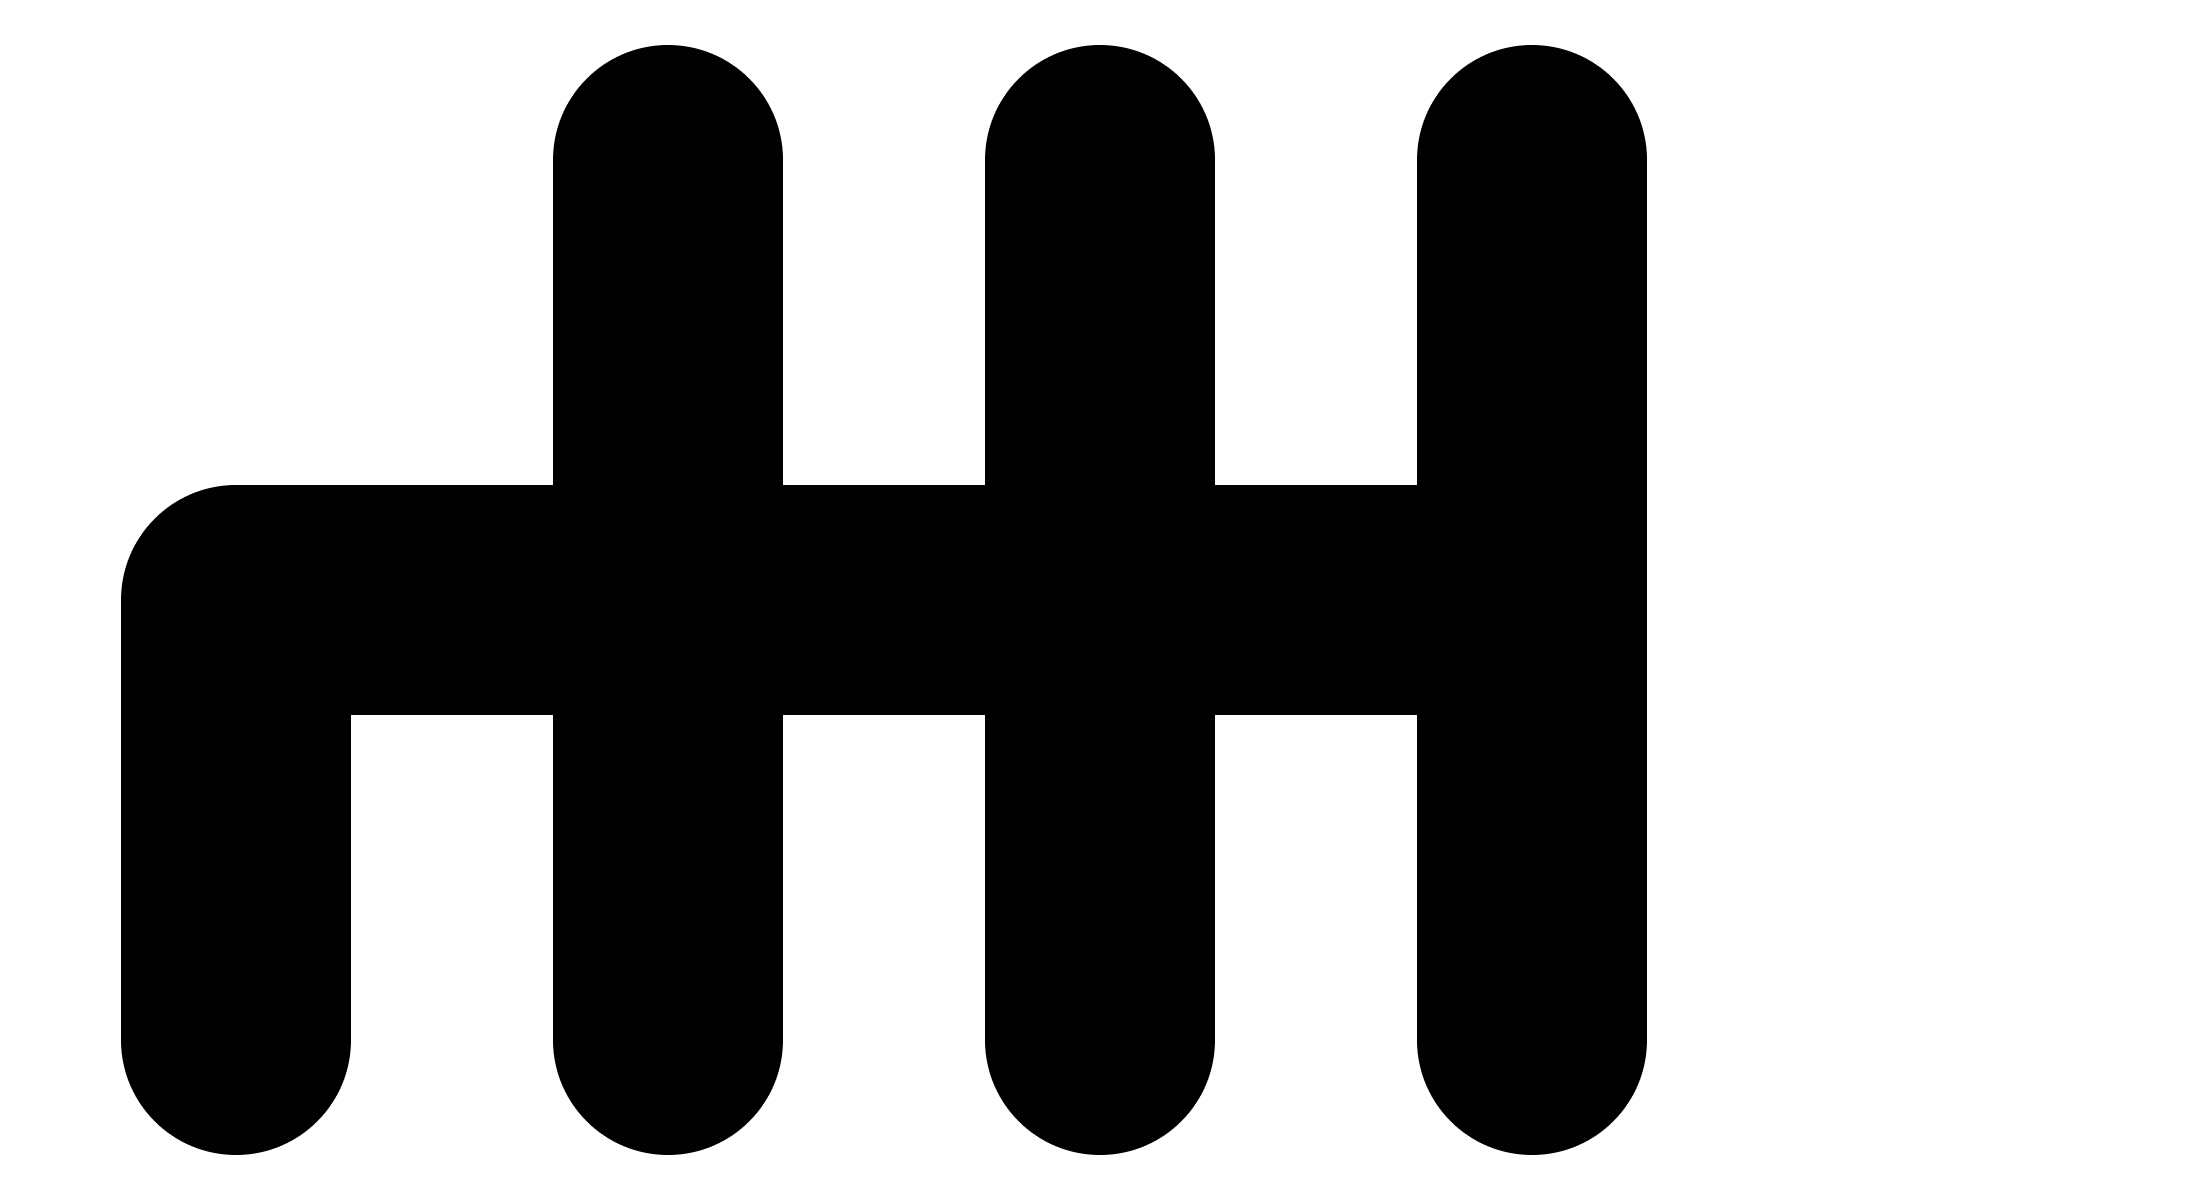
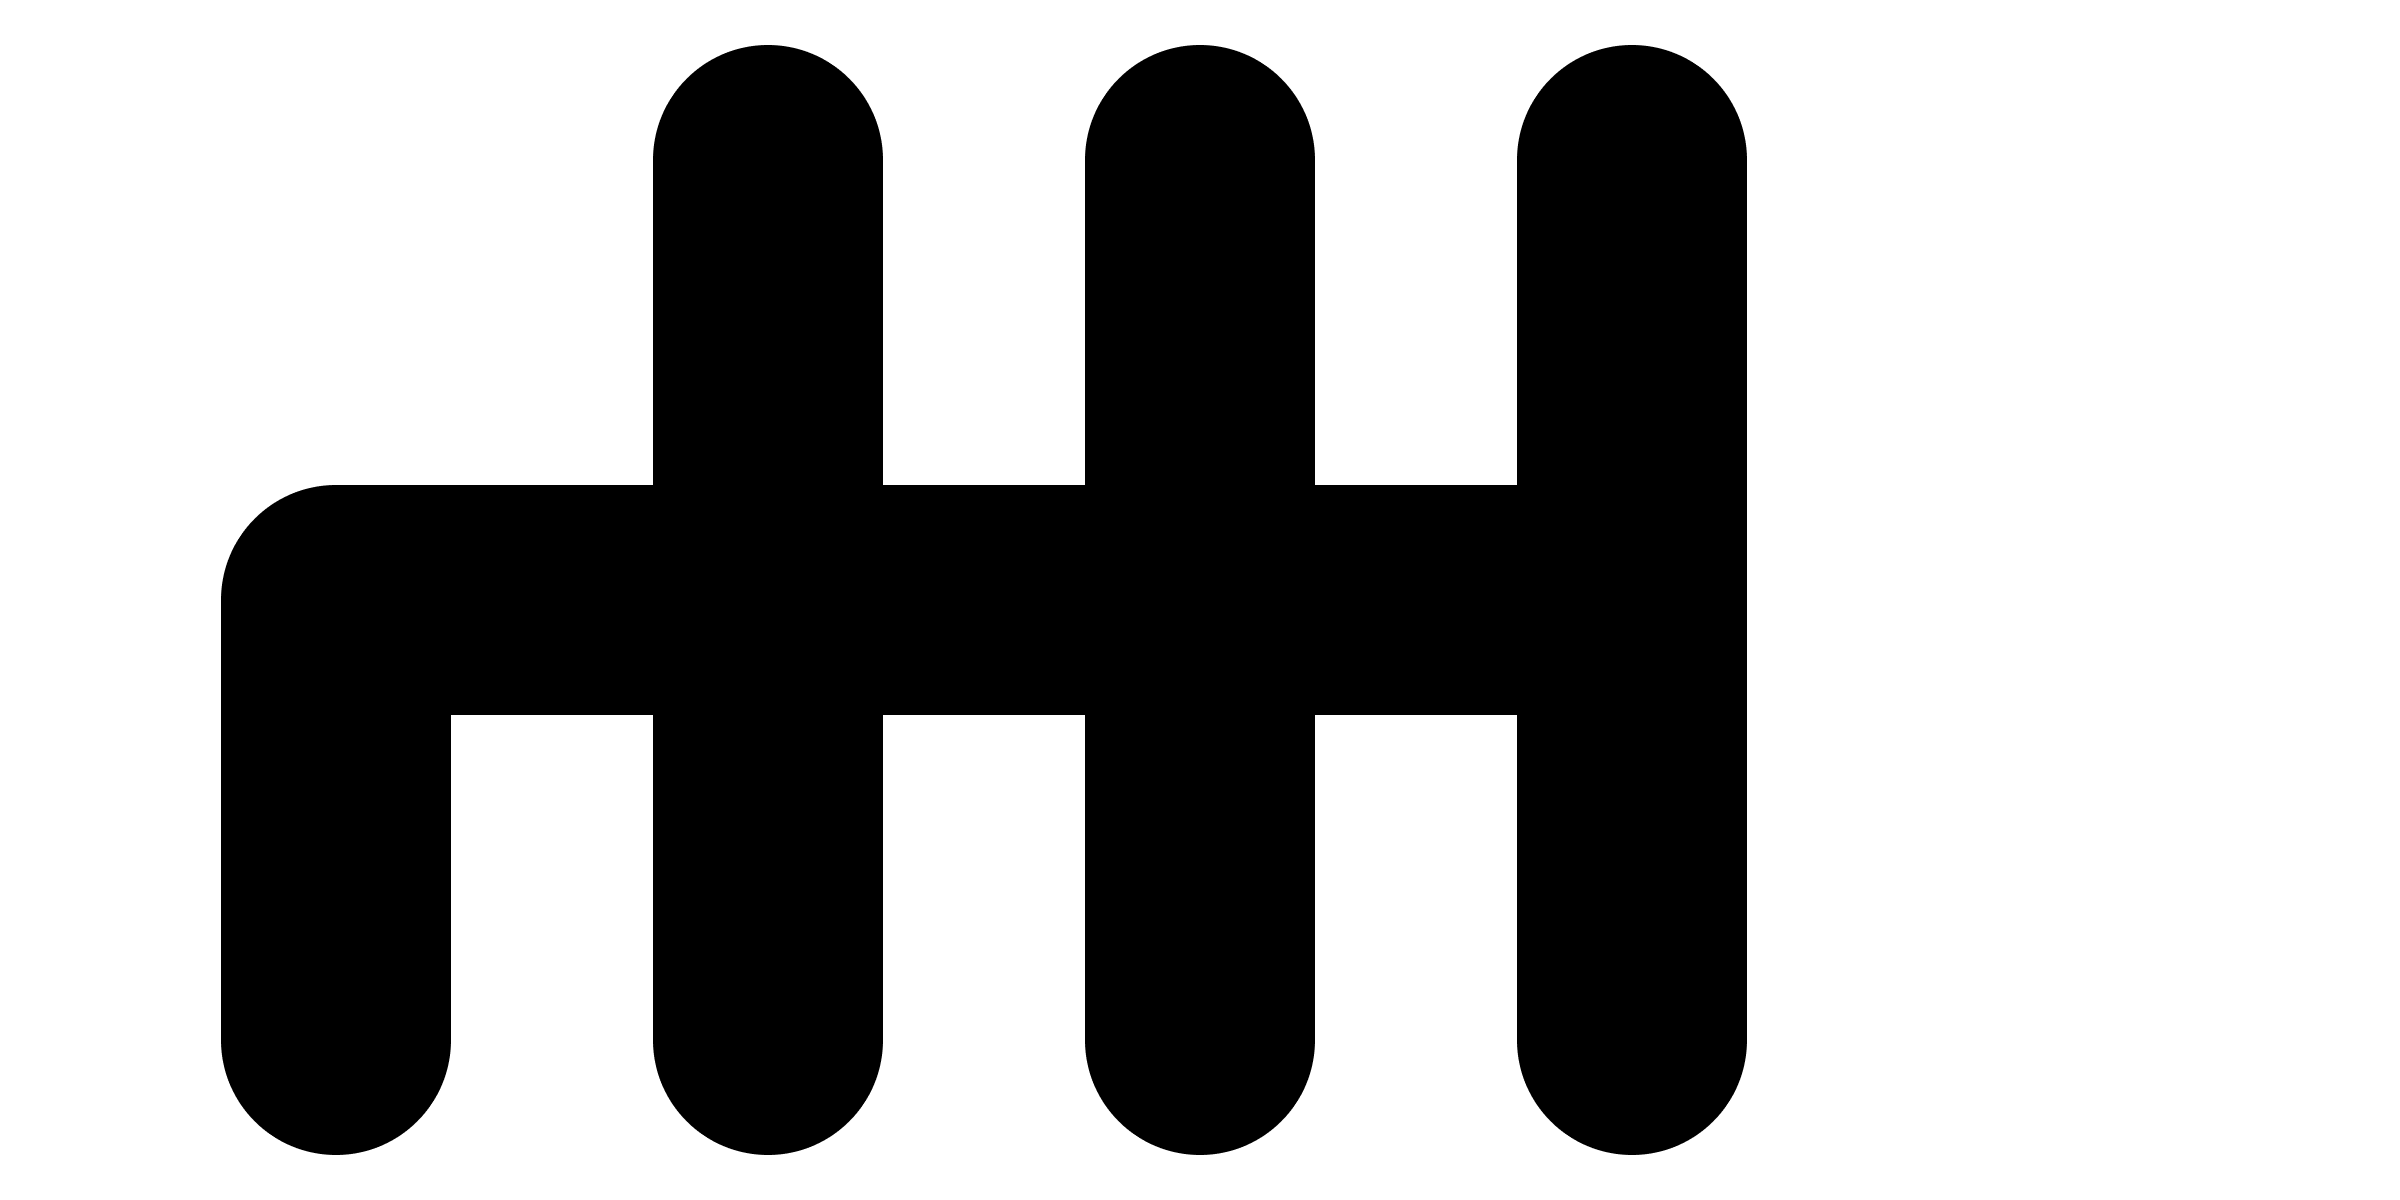
Reverse gear test

diff --git a/steam_vr_wheel/_wheel.py b/steam_vr_wheel/_wheel.py
@@ -256,7 +256,7 @@ class HShifterImage:
         self.x = x
         self.y = y
         self.z = z
-        self.size = 7 / 100
+        self.size = 14 / 100
         self.degree = degree
         self.pos = 3.5
         self.wheel = wheel
@@ -274,10 +274,11 @@ class HShifterImage:
 
         self._splitter_toggled = False
         self._range_toggled = False
+        self._reverse_locked = True
 
-        self._pos_to_button = dict({1: 43,     3: 45,     5: 47,
-                                    1.5: None, 3.5: None, 5.5: None,
-                                    2: 44,     4: 46,     6: 48})
+        self._pos_to_button = dict({-1: None,   1: 43,     3: 45,     5: 47,
+                                    -0.5: None, 1.5: None, 3.5: None, 5.5: None,
+                                    0: 51,      2: 44,     4: 46,     6: 48})
         self._pressed_button = None
         self._xz = [0,0]
         self._last_xz_grid = np.array([0,0])
@@ -292,7 +293,7 @@ class HShifterImage:
 
         # Images
         this_dir = os.path.abspath(os.path.dirname(__file__))
-        slot_img = os.path.join(this_dir, 'media', 'h_shifter_slot.png')
+        slot_img = os.path.join(this_dir, 'media', 'h_shifter_slot_7.png')
         self._stick_img = os.path.join(this_dir, 'media', 'h_shifter_stick_low.png')
         self._stick_img_2 = os.path.join(this_dir, 'media', 'h_shifter_stick_high.png')
         self._knob_img = os.path.join(this_dir, 'media', 'h_shifter_knob.png')
@@ -305,7 +306,7 @@ class HShifterImage:
         # Visibility
         check_result(self.vroverlay.setOverlayColor(self.slot, 0.2, 0.2, 0.2)) # default gray outline
         check_result(self.vroverlay.setOverlayAlpha(self.slot, alpha/100))
-        check_result(self.vroverlay.setOverlayWidthInMeters(self.slot, self.size)) # default 7cm
+        check_result(self.vroverlay.setOverlayWidthInMeters(self.slot, self.size)) # default 14cm
         
         stick_width = 0.02
         self.stick_width = stick_width
@@ -405,6 +406,12 @@ class HShifterImage:
             btn_id = self._pos_to_button[self.pos]
             self._pressed_button = btn_id
 
+    def lock_reverse(self):
+        self._reverse_locked = True
+
+    def unlock_reverse(self):
+        self._reverse_locked = False
+
     def toggle_splitter(self, ctr):
         self._splitter_toggled = not self._splitter_toggled
         check_result(self.vroverlay.setOverlayFromFile(self.knob, 
@@ -486,7 +493,7 @@ class HShifterImage:
 
     def unsnap(self):
         self._snapped = False
-        if self.pos == 1.5 or self.pos == 5.5:
+        if self.pos in [-0.5, 1.5, 5.5]:
             self.set_stick_xz_pos([0,0])
 
         self._move_stick(self._xz_pos())
@@ -515,7 +522,7 @@ class HShifterImage:
         xz = self._xz
         pitch, yaw, roll = [hmd.pitch, hmd.yaw, hmd.roll]
 
-        unit = (self.size/2 - self.stick_width/2)
+        unit = (self.size/4 - self.stick_width/2)
 
         x_deg = self.degree * abs(xz[0])
         z_deg = self.degree * abs(xz[1])
@@ -575,9 +582,13 @@ class HShifterImage:
         if self.wheel.config.shifter_adaptive_bounds:
             self.collision_radius = 0.07
         else:
+            x_sin_full = sin(self.degree*pi/180) * self.stick_height
+            z_sin_full = sin(self.degree*pi/180) * self.stick_height
+            margin = 0.05
+
             self.bounds = [
-                [self.x - x_sin-unit, y_knob+0.055-0.1, self.z -z_sin-unit], 
-                [self.x + x_sin+unit, y_knob+0.055, self.z +z_sin+unit]]
+                [self.x - (x_sin_full+unit)*2 - margin, y_knob+0.1-0.15, self.z -z_sin_full-unit - margin], 
+                [self.x + x_sin_full+unit     + margin, y_knob+0.1     , self.z +z_sin_full+unit + margin]]
 
         self.x_knob = x_knob
         self.y_knob = y_knob
@@ -625,7 +636,7 @@ class HShifterImage:
 
         if self._snapped:
             u_sin = (self.stick_height * sin(self.degree*pi/180))
-            unit = (self.size/2 - self.stick_width/2)
+            unit = (self.size/4 - self.stick_width/2)
 
             ctr = self._snap_ctr
             p1 = [ctr.x, ctr.y, ctr.z]
@@ -638,7 +649,7 @@ class HShifterImage:
                         0,
                         dp_unsafe[2] / (u_sin + unit)]
             xz_ctr = np.array([
-                max(min(dp_unsafe[0], 1.0), -1.0),
+                max(min(dp_unsafe[0], 1.0), -2.0), # -2.0 for reverse
                 max(min(dp_unsafe[2], 1.0), -1.0)])
 
             x_mid_margin = 0.55
@@ -656,9 +667,14 @@ class HShifterImage:
 
                 xz_1[0] = xz_ctr[0]
                 xz_1[1] = xz_ctr[1]
-                if xz_ctr[0] == -1:
-                    xz_1[0] = -1
-                    xz_pos_1[0] = -1
+                if xz_ctr[0] <= -1:
+                    if xz_ctr[0] > -2.0 or (xz_pos_0[0] != -2 and self._reverse_locked):
+                        xz_1[0] = -1
+                        xz_pos_1[0] = -1
+                    else:
+                        xz_1[0] = -2
+                        xz_pos_1[0] = -2
+                        xz_1[1] = max(0, xz_1[1])
                 elif xz_ctr[0] == 1:
                     xz_1[0] = 1
                     xz_pos_1[0] = 1
@@ -672,13 +688,21 @@ class HShifterImage:
                     xz_1[1] = 0
             else:
                 xz_1[0] = xz_pos_0[0]
-                xz_1[1] = xz_ctr[1]
-                if xz_ctr[1] < -z_end_margin:
-                    xz_pos_1[1] = -1
-                elif xz_ctr[1] > z_end_margin:
-                    xz_pos_1[1] = 1
+
+                if xz_pos_0[0] == -2: # reverse
+                    xz_1[1] = max(0, xz_ctr[1])
+                    if xz_ctr[1] > z_end_margin:
+                        xz_pos_1[1] = 1
+                    else:
+                        xz_pos_1[1] = 0
                 else:
-                    xz_pos_1[1] = 0
+                    xz_1[1] = xz_ctr[1]
+                    if xz_ctr[1] < -z_end_margin:
+                        xz_pos_1[1] = -1
+                    elif xz_ctr[1] > z_end_margin:
+                        xz_pos_1[1] = 1
+                    else:
+                        xz_pos_1[1] = 0
 
             restrained_margin = 1.5
             if abs(dp_unsafe[0]-xz_pos_1[0]) > restrained_margin or abs(dp_unsafe[2]-xz_pos_1[1]) > restrained_margin:
@@ -1059,6 +1083,11 @@ class Wheel(RightTrackpadAxisDisablerMixin, VirtualPad):
 
     def set_button_unpress(self, button, hand):
         super().set_button_unpress(button, hand)
+
+        if self._hand_snaps[hand] == 'shifter':
+            if button == openvr.k_EButton_SteamVR_Trigger:
+                self.h_shifter_image.lock_reverse()
+
         if self.config.wheel_grabbed_by_grip_toggle:
             if button == openvr.k_EButton_Grip and hand == 'left':
                 self._grip_queue.put(['left', False])
@@ -1073,12 +1102,10 @@ class Wheel(RightTrackpadAxisDisablerMixin, VirtualPad):
         super().set_button_press(button, hand)
 
         if self._hand_snaps[hand] == 'shifter':
-            if (button == (
-                openvr.k_EButton_SteamVR_Trigger # Trigger
-                if self.config.shifter_button_layout == False else
-                openvr.k_EButton_A)): # A
-
+            if button == openvr.k_EButton_A: # A
                 self.h_shifter_image.toggle_splitter(ctr)
+            if button == openvr.k_EButton_SteamVR_Trigger:
+                self.h_shifter_image.unlock_reverse()
 
         if button == openvr.k_EButton_Grip and hand == 'left':
             if self.config.wheel_grabbed_by_grip_toggle:

diff --git a/steam_vr_wheel/pyvjoy/_sdk.py b/steam_vr_wheel/pyvjoy/_sdk.py
@@ -197,8 +197,13 @@ class FFB_DATA(Structure):
 				("cmd", c_ulong),
 				("data", POINTER(c_ubyte))]
 
+class FFB_DIR_UNION(Union):
+	_fields_ = [("Direction", c_char),
+				("DirX", c_char)]
+
 # cf. https://learn.microsoft.com/en-us/previous-versions/windows/desktop/ee416616(v=vs.85)
 class FFB_EFF_REPORT(Structure):
+	_anonymous_ = ("FFB_DIR_UNION",)
 	_fields_ = [("EffectBlockIndex", c_char),
 				("EffectType", c_uint),
 				("Duration", c_ushort),
@@ -207,8 +212,7 @@ class FFB_EFF_REPORT(Structure):
 				("Gain", c_char),
 				("TrigerBtn", c_char),
 				("Polar", c_bool),
-				("Direction", c_char),
-				("DirX", c_char),
+				("FFB_DIR_UNION", FFB_DIR_UNION),
 				("DirY", c_char)]
 
 class FFB_EFF_OP(Structure):
@@ -243,9 +247,9 @@ def IsDeviceFfb(rID):
 	return _vj.IsDeviceFfb(rID)
 
 def _twos_comp(val, bits):
-    if (val & (1 << (bits - 1))) != 0:
-        val = val - (1 << bits) 
-    return val
+	if (val & (1 << (bits - 1))) != 0:
+		val = val - (1 << bits) 
+	return val
 
 FFB_GEN_CB = WINFUNCTYPE(None, c_void_p, c_void_p)
 

diff --git a/steam_vr_wheel/configurator.py b/steam_vr_wheel/configurator.py
@@ -70,7 +70,8 @@ class ConfiguratorApp:
         self.shifter_scale = wx.SpinCtrl(self.pnl_shifter_scale, name = "Shifter Height Scale (%), 100%", min=10, max=100)
         
         self.shifter_button_layout_box = wx.CheckBox(self.pnl, label='Use Knob+A for splitter')
-        self.shifter_adaptive_bounds_box = wx.CheckBox(self.pnl, label='Knob is easier to grab when it\'s out of sight (experimental)')
+        self.shifter_button_layout_box.Disable()
+        self.shifter_adaptive_bounds_box = wx.CheckBox(self.pnl, label='Knob grabbing has to be accurate')
 
         # Joystick button or axis
         self.pnl_joystick = wx.Panel(self.pnl)
